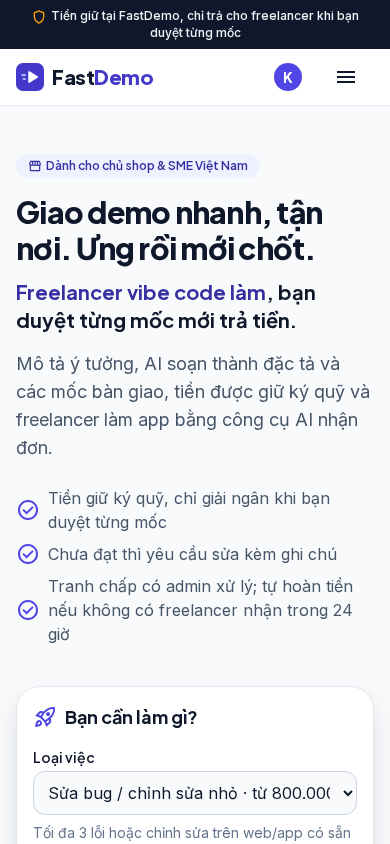
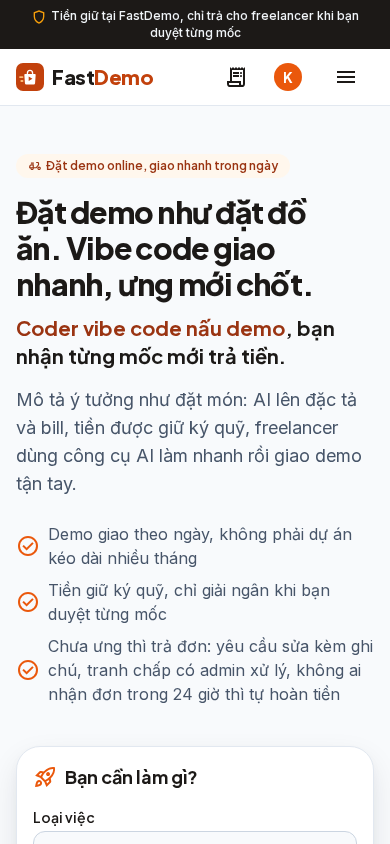
docs(ui-rebrand): chup lai man A-D 390x844 theo brand cam, cap nhat README (HON-47)
Backend that (core-api + seed staging) tren PGlite + NATS local, khong phai staging Docker.

diff --git a/docs/ui-rebrand/README.md b/docs/ui-rebrand/README.md
@@ -1,27 +1,50 @@
-# Ảnh chụp rebrand FastDemo – 390×844 (HON-43)
+# Ảnh chụp rebrand FastDemo (tông cam) – 390×844 (HON-43 / HON-47)
 
-Chụp ngày 20/11/2026 trên nhánh `feat/rename-fastdemo`, Chromium headless, viewport 390×844, deviceScaleFactor 1.
+Chụp ngày 20/11/2026 từ commit `8483ffa` (nhánh `feat/rename-fastdemo`), Chromium headless, viewport 390×844, deviceScaleFactor 1, `isMobile`.
 `*.png` = màn hình đầu (390×844); `*-full.png` = cả trang. Thanh hành động dính đáy (sticky) có thể hiện giữa ảnh `-full`: đó là do cách chụp cả trang, không phải lỗi bố cục.
 
-**Không phải staging thật.** Máy dev không có Docker/Postgres nên không dựng được core-api theo `docs/STAGING.md`.
-Cách chụp: `apps/web` chạy `next dev` với `NEXT_PUBLIC_API_URL` trỏ tới một địa chỉ không tồn tại; Playwright chặn mọi request tới địa chỉ đó và trả dữ liệu mẫu đúng schema `@grabcode/contracts` (Order, PaymentInstructions, Me). Vì vậy:
-- Tên, số tiền, số tài khoản, ảnh QR trong ảnh đều là **dữ liệu mẫu**; ô QR là ảnh giữ chỗ "QR mẫu (giả lập)", không phải VietQR thật.
-- Giao diện là code thật của nhánh; chỉ dữ liệu là giả.
-- Huy hiệu Next.js dev đã được ẩn khi chụp.
+## Cách dựng: KHÔNG phải staging Docker
+
+Máy chụp không có Docker/Postgres nên không chạy được `infra/deploy/staging-up.sh` (docs/STAGING.md). Thay vào đó dựng **backend thật** ở máy local:
+
+- Postgres: PGlite (Postgres in-process, cùng thư viện test của core-api dùng) mở cổng qua `@electric-sql/pglite-socket`; chạy đủ migration bằng `drizzle-kit migrate`.
+- NATS: `nats-server -js` cổng 4223.
+- core-api: code thật (`tsx src/main.ts`) với biến giống `env.staging.example` (`APP_ENV=staging`, `AUTH_DEV_LOGIN=true`, STK giả `MB Bank (STAGING DEMO) / 0000000000`). Khác code repo đúng 1 chỗ, chỉ trong bản clone tạm, không commit: pool DB `max: 1, prepare: false` vì PGlite-socket không chịu nhiều kết nối song song.
+- Dữ liệu: `api/core-api/scripts/seed-staging.mjs` (seed staging thật, đi qua API). Thêm 1 đơn `GC-1007` DISPUTED, cũng tạo qua API thật (đặt → báo giá → xác nhận tiền → coder nhận → nộp M1 → khách mở tranh chấp), vì seed không có đơn tranh chấp.
+- `apps/web`: `next dev`, `NEXT_PUBLIC_API_URL=http://localhost:4000`, `NEXT_PUBLIC_SUPPORT_ZALO=0900000000` (số giả).
+- Không có worker (brief, sandbox, notifier, outbox). Huy hiệu Next.js dev được ẩn khi chụp.
+
+Nên: giao diện và dữ liệu đều do code thật sinh ra, nhưng tên, số tiền, STK, số Zalo là dữ liệu mẫu của staging. Ảnh QR là VietQR thật sinh từ STK giả, **không chuyển khoản được**.
+Nút "Giả lập đã chuyển khoản (dev)" trong `A-…-full` có mặt vì bật `AUTH_DEV_LOGIN` như staging.
+Link bàn giao `https://demo.staging.grabcode.test/...` là dữ liệu do seed tạo ra (tên miền cũ trong seed), không phải chữ trong giao diện.
 
 | Ảnh | Màn | Trạng thái |
 |---|---|---|
-| `00-home` | Trang chủ (slogan) | khách đã đăng nhập |
-| `00-login` | Đăng nhập (logo nền tối + slogan) | chưa đăng nhập |
-| `A-vietqr-GC-1001` | A – Thanh toán VietQR | DRAFT, đã báo giá |
-| `B-trang-thai-moc-cho-duyet-GC-1002` | B – Trạng thái đơn | IN_PROGRESS, M2 chờ duyệt (nút "Duyệt & trả" / "Yêu cầu sửa") |
-| `B-trang-thai-da-ban-giao-GC-1003` | B – Trạng thái đơn | DELIVERED, có bản chạy thử |
-| `C-sheet-nghiem-thu-GC-1003` | C – Xác nhận giải ngân | sheet "Nghiệm thu & trả" |
-| `C-sheet-yeu-cau-sua-GC-1003` | C – Yêu cầu sửa | sheet + chip gợi ý |
-| `C-sheet-tranh-chap-GC-1002` | C – Mở tranh chấp | sheet |
-| `C-dang-tranh-chap-GC-1004` | C – Đơn đang tranh chấp | DISPUTED |
-| `D-don-cua-toi` | D – Đơn của tôi | tab "Cần bạn xử lý" |
+| `00-login` | Đăng nhập | chưa đăng nhập |
+| `00-home` | Trang chủ | khách đã đăng nhập |
+| `A-vietqr-GC-1005` | A – Thanh toán VietQR | DRAFT, đã báo giá, chờ chuyển khoản |
+| `B-trang-thai-moc-cho-duyet-GC-1003` | B – Trạng thái đơn | IN_PROGRESS, M1 chờ duyệt (CTA "Xem & duyệt M1") |
+| `B-trang-thai-da-ban-giao-GC-1002` | B – Trạng thái đơn | DELIVERED (CTA "Nghiệm thu đơn" / "Yêu cầu sửa") |
+| `C-sheet-nghiem-thu-GC-1002` | C – Nghiệm thu & trả | sheet, chưa tích xác nhận |
+| `C-sheet-yeu-cau-sua-GC-1002` | C – Yêu cầu sửa | sheet + chip gợi ý |
+| `C-sheet-tranh-chap-GC-1003` | C – Mở tranh chấp | sheet |
+| `C-dang-tranh-chap-GC-1007` | C – Đơn đang tranh chấp | DISPUTED |
+| `D-don-cua-toi` | D – Đơn của tôi | tab "Cần bạn xử lý (3)" |
 
-Đo tự động trên từng ảnh (A–D): không cuộn ngang (scrollWidth = 390), Navbar cao 56px, không còn chữ "grabcode", không có "..", không còn phần tử bấm được cao < 44px (trừ link/nút nằm trong câu chữ).
+## Đo tự động trên từng ảnh
 
-> **LỖI THỜI:** ảnh trong thư mục này chụp ở bản tông indigo (trước khi đổi sang concept "giao đồ ăn" tông cam, HON-43 lần 2). Chưa chụp lại vì máy không dựng được staging.
+- Không cuộn ngang (scrollWidth = 390) ở cả 10 màn. Không lỗi JS (pageerror) nào.
+- axe-core (WCAG 2 A/AA): màn A–D **0 lỗi tương phản**, 0 lỗi khác. Trang chủ có 5 lỗi tương phản + 1 `scrollable-region-focusable` (xem review).
+- Không còn chữ "shipper", "tài xế", "..". Chữ "grabcode" chỉ xuất hiện trong link bàn giao do seed tạo (B/C).
+- Phần tử bấm được cao < 44px ở A–D: chỉ còn link "Zalo 0900 000 000" (20px, nằm trong câu "Cần hỗ trợ? …") và ô checkbox 17×20 trong sheet nghiệm thu (nằm trong `<label>` 350×66, bấm cả dòng là tích được, đã thử).
+
+Tương phản đo trên màu thực tế (computed style):
+
+| Phần tử | Chữ / nền | Tỉ lệ | AA |
+|---|---|---|---|
+| Nút chính ("Nghiệm thu đơn", "Nghiệm thu & trả", "Đăng nhập") | #FFFFFF / #C2410C | 5.18 | đạt |
+| Nút phụ ("Tôi đã chuyển khoản", "Yêu cầu sửa", "Sao chép") | #9A3412 / #FFF7ED | 6.88 | đạt |
+| Chip "Chờ thanh toán" (12px) | #92400E / #FEF3C7 | 6.37 | đạt |
+| Giá đơn | #9A3412 / #F8FAFC | 6.98 | đạt |
+| Trang chủ: đầu cột "FastDemo" bảng so sánh (14px đậm) | #FFFFFF / #EA580C | 3.56 | **không đạt** |
+| Trang chủ: nhãn danh mục template (`text-slate-400`, 12px) | #94A3B8 / #FFFFFF | 2.56 | **không đạt** |
